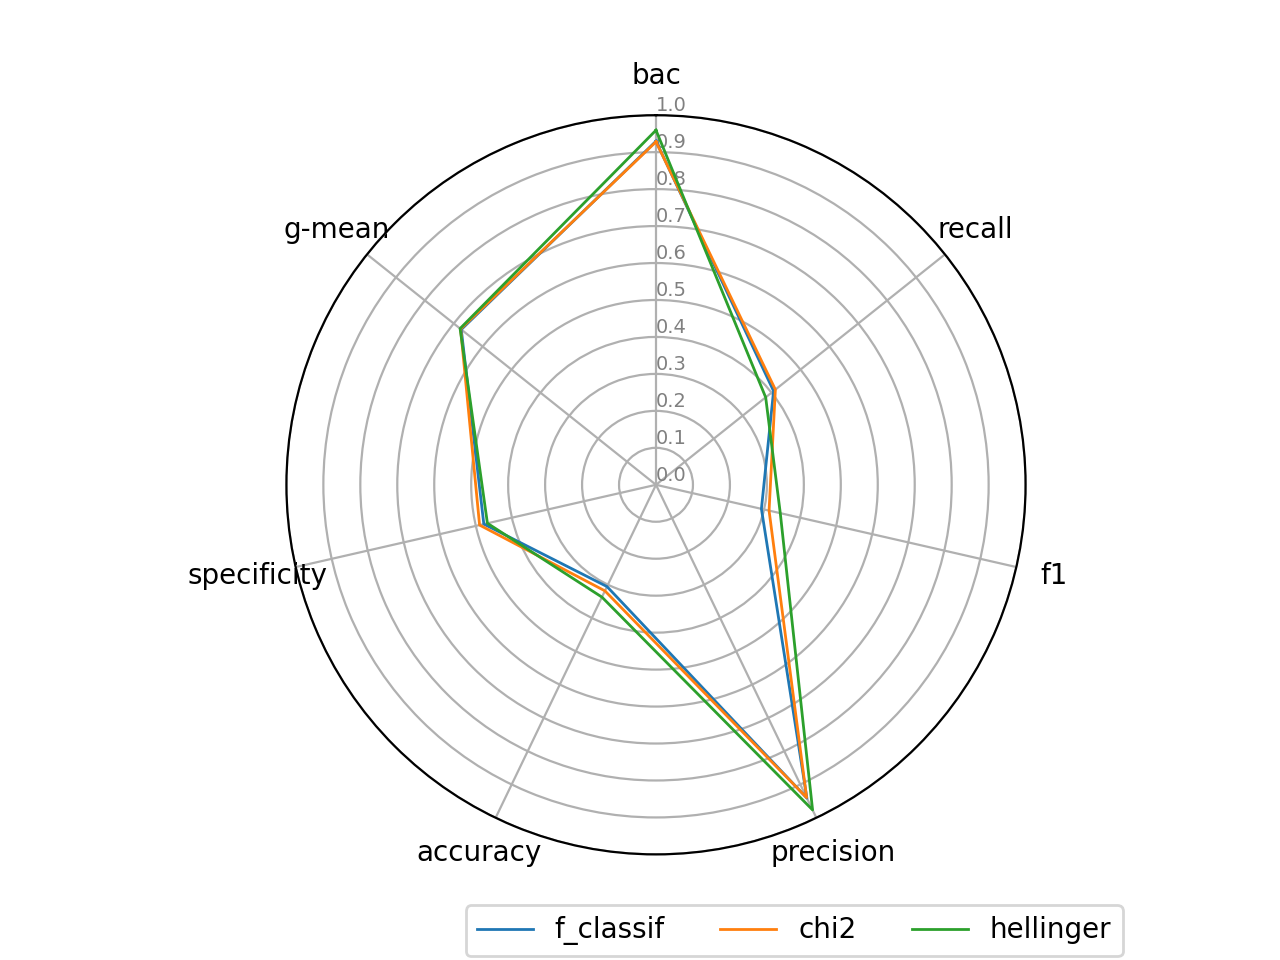
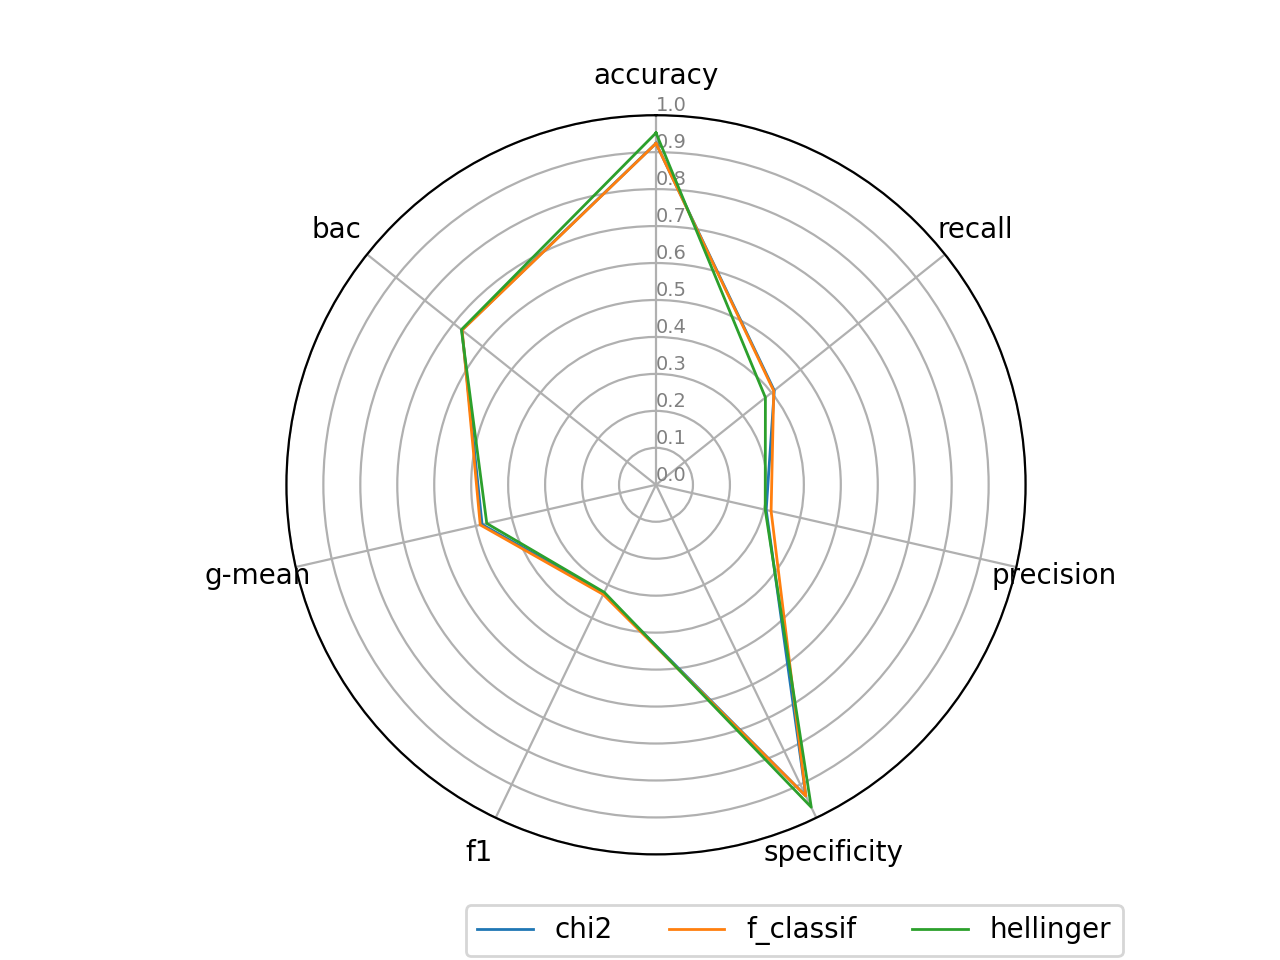
Male poprawki

diff --git a/PROJEKT/petlaEksperymentalna.py b/PROJEKT/petlaEksperymentalna.py
@@ -12,6 +12,7 @@ from sklearn.preprocessing import MinMaxScaler
 # from sklearn.metrics import recall, precision, specificity, f1_score, geometric_mean_score_1, balanced_accuracy_score
 from sklearn.model_selection import RepeatedStratifiedKFold
 from sklearn.base import clone
+from sklearn.tree import DecisionTreeClassifier
 from Hellinger import hellinger
 
 clf= GaussianNB()
@@ -48,7 +49,7 @@ n_metrics=len(metrics)
 
 n_splits = 5
 n_repeats = 2
-rskf = RepeatedStratifiedKFold(n_splits=n_splits, n_repeats=n_repeats, random_state=1234)
+rskf = RepeatedStratifiedKFold(n_splits=n_splits, n_repeats=n_repeats, random_state=1420)
 
 scores=np.zeros((n_score_functions,n_datasets,n_metrics, n_splits * n_repeats))
 
@@ -61,9 +62,9 @@ for data_id, dataset in enumerate(datasets):
     for fold_id, (train, test) in enumerate(rskf.split(X, y)):
         for score_fun_id, score_fun_name in enumerate(score_functions):
             if(score_fun_name=="chi2"):
-                select=make_pipeline(MinMaxScaler(), SelectKBest( score_func=chi2,k=5))
+                select=make_pipeline(MinMaxScaler(), SelectKBest( score_func=chi2,k=8))
             else:
-                select=SelectKBest(score_functions[score_fun_name],k=5)
+                select=SelectKBest(score_functions[score_fun_name],k=8)
 
             select.fit(X[train], y[train])
 

diff --git a/PROJEKT/wizualizacja.py b/PROJEKT/wizualizacja.py
@@ -9,7 +9,7 @@ print(scores.shape)
 mean_scores = np.mean(scores, axis=1).T
 print(mean_scores.shape)
 
-metrics = {
+metrics = [
     "accuracy",
     "recall" ,
     'precision' ,
@@ -17,13 +17,13 @@ metrics = {
     'f1',
     'g-mean',
     'bac'
-}
+]
 
-score_functions= {
+score_functions= [
     "chi2",
     "f_classif",
     "hellinger"
-}
+]
 
 N = mean_scores.shape[0]
 
@@ -51,6 +51,7 @@ plt.ylim(0,1)
 
 # Dodajemy wlasciwe ploty dla kazdej z metod
 for score_function_id, score_function in enumerate(score_functions):
+    print("score_function_id",score_function_id,"score_function",score_function)
     values=mean_scores[:, score_function_id].tolist()
     values += values[:1]
     print(values)

diff --git a/PROJEKT/analizaStatystyczna.py b/PROJEKT/analizaStatystyczna.py
@@ -32,11 +32,11 @@ p_value_f1 = np.zeros((len(score_functions), len(score_functions)))
 
 for i in range(len(score_functions)):
     for j in range(len(score_functions)):
-        t_statistic_f1[i, j], p_value_f1[i, j] = ttest_rel(mean_scores[i,:,4], mean_scores[j,:,4])
+        t_statistic_f1[i, j], p_value_f1[i, j] = ttest_rel(mean_scores[i,:,5], mean_scores[j,:,5])
 # print("t-statistic:\n", t_statistic_f1, "\n\np-value:\n", p_value_f1)
 
 
-print("\nF1-score:\n")
+print("\nG-mean:\n")
 headers = ["chi2", "ANOVA", "Hellinger"]
 names_column = np.array([["chi2"], ["ANOVA"], ["Hellinger"]])
 t_statistic_table = np.concatenate((names_column, t_statistic_f1), axis=1)
